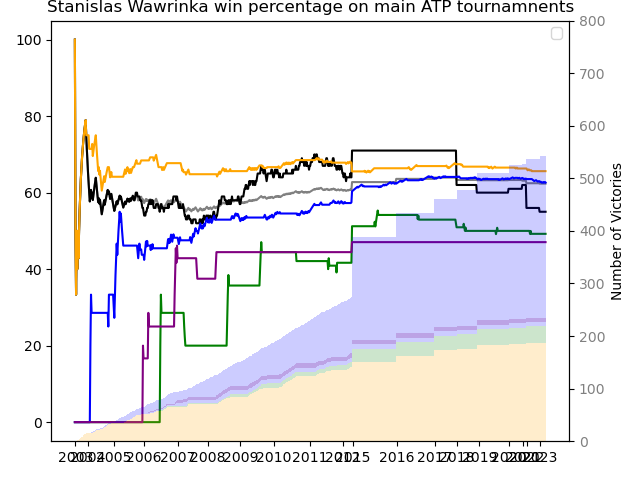
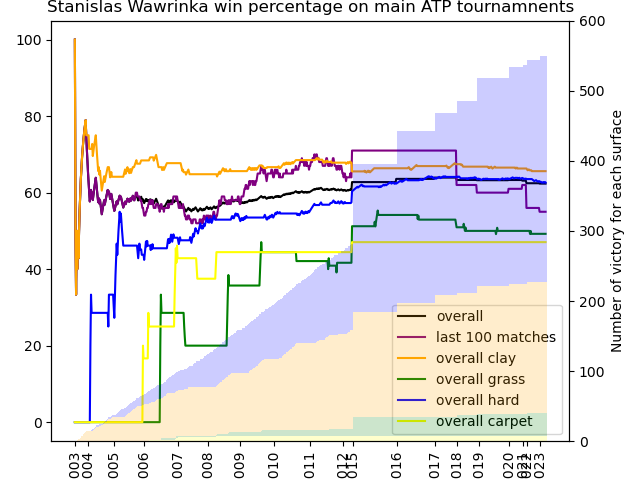
ADD: few improvements

diff --git a/examples/data/data_loading.py b/examples/data/data_loading.py
@@ -18,7 +18,7 @@ data_df = matches_data_loader(
     flush_cache=False,
     keep_values_from_year=2002,
     get_match_statistics=True,
-    get_reversed_match_data=False,
+    get_reversed_match_data=True,
     include_davis_cup=True,
     match_type=["main_atp", "qualifying_challengers"],
 )
@@ -123,6 +123,12 @@ overall_clay = []
 overall_carpet = []
 overall_grass = []
 overall_hard = []
+
+wins_clay = []
+wins_carpet = []
+wins_grass = []
+wins_hard = []
+
 dates = []
 stan_df = data_df.loc[data_df.ID_1 == 104527]
 stan_df = stan_df.reset_index()
@@ -142,6 +148,12 @@ for n_row, row in stan_df.iterrows():
         overall_grass.append(row["Grass_Victories_Percentage_1"])
         overall_hard.append(row["Hard_Victories_Percentage_1"])
         overall_carpet.append(row["Carpet_Victories_Percentage_1"])
+
+    wins_clay.append(list(row.Matches_Clay_1).count("V"))
+    wins_carpet.append(list(row.Matches_Carpet_1).count("V"))
+    wins_grass.append(list(row.Matches_Grass_1).count("V"))
+    wins_hard.append(list(row.Matches_Hard_1).count("V"))
+
 plt.figure()
 plt.plot(overall_v, label="overall")
 plt.plot(last_hundred_v, label="last 100 matches")
@@ -152,6 +164,32 @@ plt.plot(overall_carpet, label="overall carpet")
 plt.legend()
 plt.xticks([d[1] for d in dates], [d[0] for d in dates], rotation="vertical")
 plt.title("Stanislas Wawrinka win percentage on main ATP tournamnents")
+plt.savefig("stan_the_man_win_percentage.png")
+plt.show()
+
+
+fig, ax1 = plt.subplots()
+ax1.plot(overall_v, label="overall", c="k")
+ax1.plot(last_hundred_v, label="last 100 matches", c="purple")
+ax1.plot(overall_clay, label="overall clay", c="orange")
+ax1.plot(overall_grass, label="overall grass", c="green")
+ax1.plot(overall_hard, label="overall hard", c="blue")
+ax1.plot(overall_carpet, label="overall carpet", c="gray")
+ax1.set_ylabel("Win %")
+plt.legend()
+
+ax2 = ax1.twinx()
+for i, (wcarpet, wgrass, wclay, whard) in enumerate(zip(wins_carpet, wins_grass, wins_clay, wins_hard)):
+    ax2.add_patch(Rectangle((i, 0), width=1, height=wcarpet, edgecolor=None, facecolor="gray", alpha=.2))
+    ax2.add_patch(Rectangle((i, wcarpet), width=1, height=wgrass, edgecolor=None, facecolor="green", alpha=.2))
+    ax2.add_patch(Rectangle((i, wcarpet+wgrass), width=1, height=wclay, edgecolor=None, facecolor="orange", alpha=.2))
+    ax2.add_patch(Rectangle((i, wcarpet+wgrass+wclay), width=1, height=whard, edgecolor=None, facecolor="blue", alpha=.2))
+
+ax2.set_yticks([0, 100, 200, 300, 400, 500, 600])
+ax2.set_ylabel("Number of victory for each surface")
+plt.tight_layout()
+ax1.set_xticks([d[1] for d in dates], [d[0] for d in dates], rotation="vertical")
+plt.title("Stanislas Wawrinka vicotires on ATP tournamnents")
 plt.savefig("stan_the_man_win_percentage.png")
 plt.show()
 

diff --git a/python/data/data_loader.py b/python/data/data_loader.py
@@ -253,7 +253,7 @@ def matches_data_loader(
         players_db_cached = False
 
     if os.path.exists(
-        os.path.join(path_to_cache, f"matches_dFata_{keep_values_from_year}.csv")
+        os.path.join(path_to_cache, f"matches_data_{keep_values_from_year}.csv")
     ):
         matches_data_cached = True
     else:
@@ -273,6 +273,7 @@ def matches_data_loader(
             players_db = pickle.load(file)
 
     if not matches_data_cached or flush_cache:
+        print("data not cached or flush=True")
         data_files = get_match_files(path_to_data, match_type=match_type)
         data_years = data_files.year.astype(
             "uint32"
